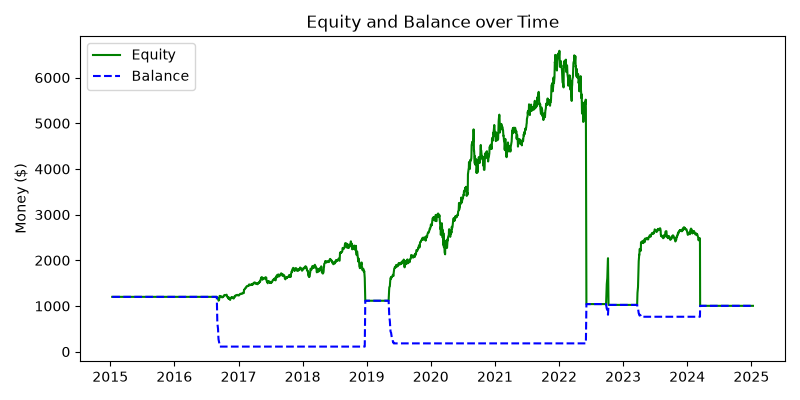
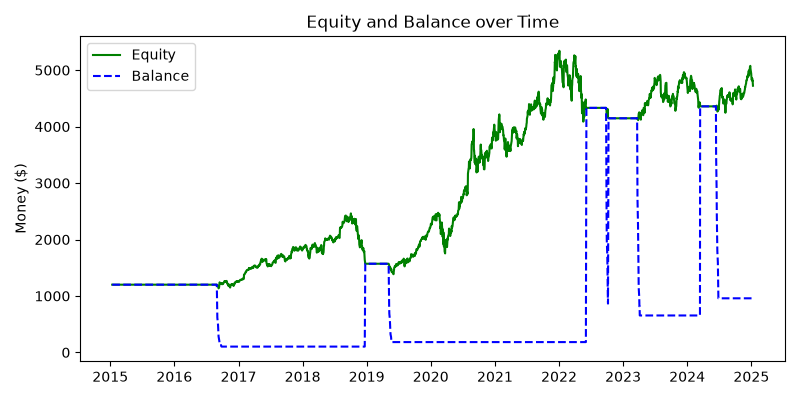
Fixed all bugs so far

diff --git a/include/broker.hpp b/include/broker.hpp
@@ -17,9 +17,9 @@ class Broker{
     public:
         //the broker is connected to the account with no direct modifier so it can use its methods
         //since the broker has a reference to the currBars in main.cpp, there is no need for a function to assign the bar every main iteration
-        Broker(Account& account, std::unordered_map<std::string,Bar> connectBar);
+        Broker(Account& account, std::unordered_map<std::string,Bar>& connectBar);
 
-        Broker(Account& account, std::unordered_map<std::string,Bar> connectBar, double commision, double slippage);
+        Broker(Account& account, std::unordered_map<std::string,Bar>& connectBar, double commision, double slippage);
 
         //the following three functions are to be used by the stratgey.hpp/cpp
         //the strategy will create the Order struct and send it to be processed by the Broker.
@@ -56,7 +56,7 @@ class Broker{
         //since market orders are prioritized first, they are in a seperate unordered map in order to iterate through them first for processing
         std::unordered_map<long int, Order> orders;
         std::unordered_map<long int, Trade> history;
-        std::unordered_map<std::string,Bar> currBars;
+        std::unordered_map<std::string,Bar>& currBars;
 
         bool checkOrder(Order& check);
 

diff --git a/src/broker.cpp b/src/broker.cpp
@@ -5,11 +5,11 @@
 //WORK IN PROGRESS
 //FIX create order and process order, while building method and means for obtaining the data values.
 
-Broker::Broker(Account& account, std::unordered_map<std::string,Bar> connectBar) : user(account),currBars(connectBar) {
+Broker::Broker(Account& account, std::unordered_map<std::string,Bar>& connectBar) : user(account),currBars(connectBar) {
     //no additional construction needed for now, since user and currBar is already referenced
 }
 
-Broker::Broker(Account& account, std::unordered_map<std::string,Bar> connectBar, double commision, double slippage) : user(account),currBars(connectBar),commisionFee(commision),slippageRate(slippage){
+Broker::Broker(Account& account, std::unordered_map<std::string,Bar>& connectBar, double commision, double slippage) : user(account),currBars(connectBar),commisionFee(commision),slippageRate(slippage){
     
 }
 
